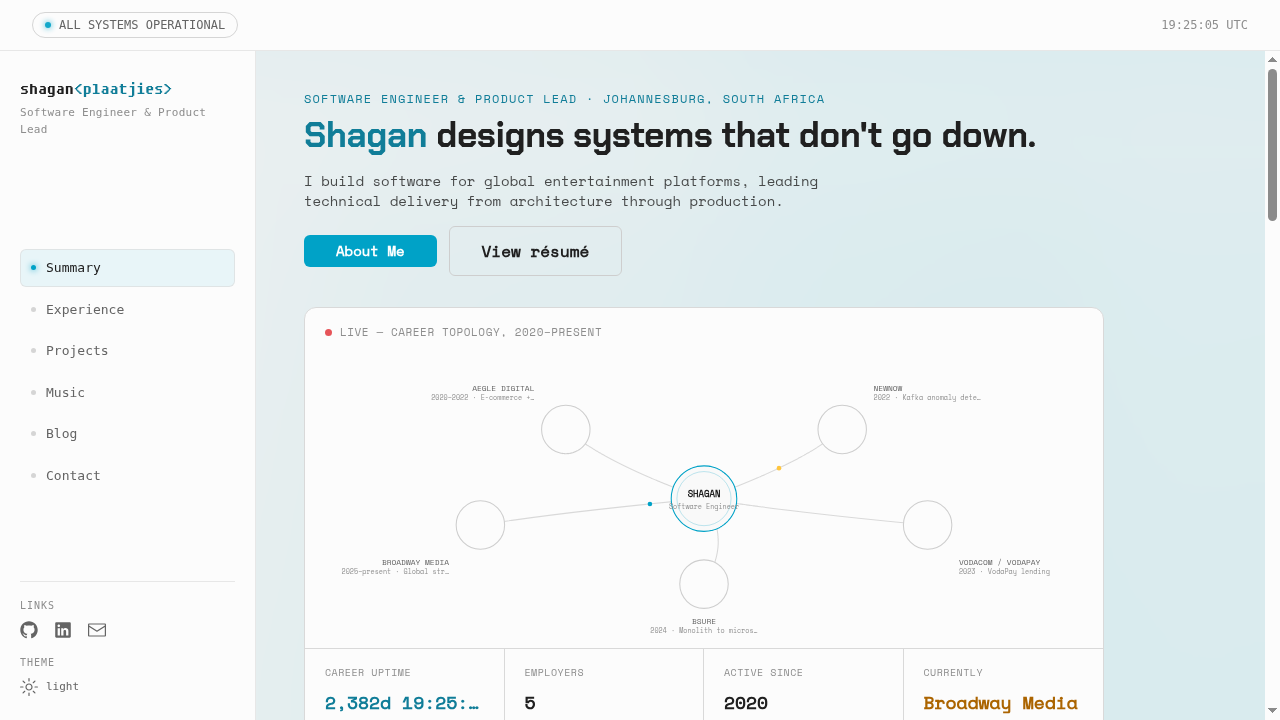
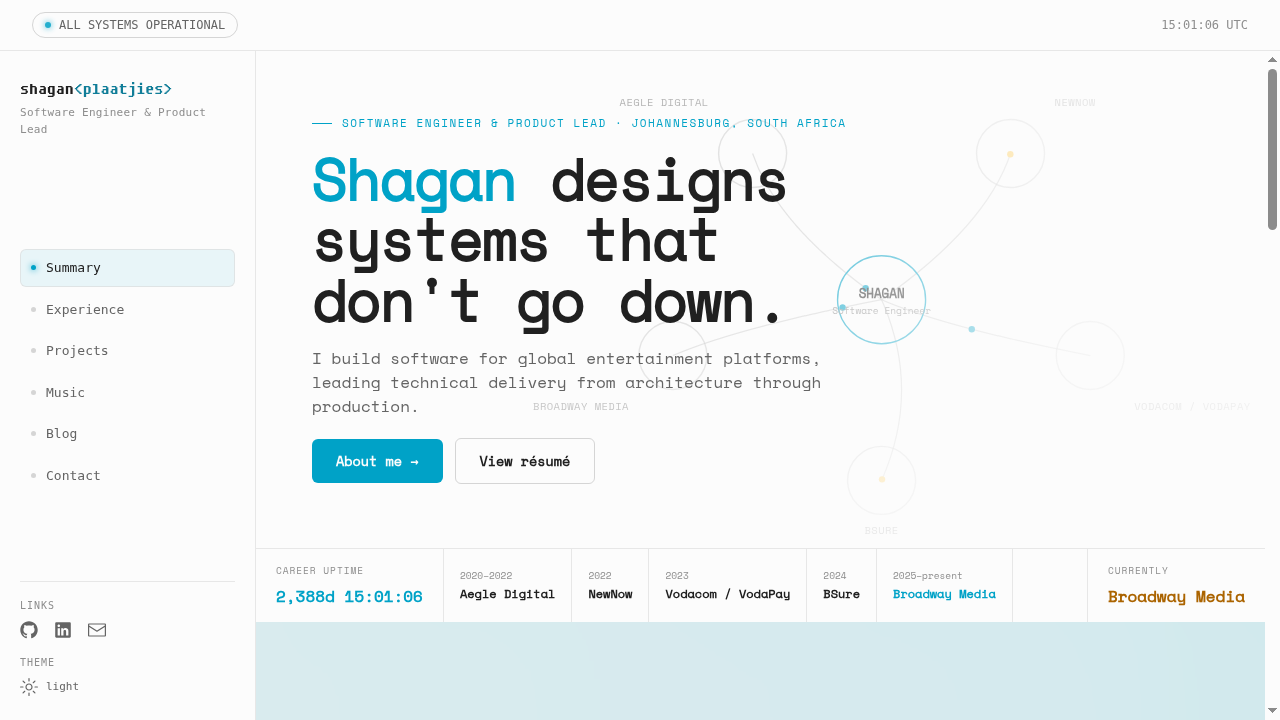
no-mistakes(document): Sync docs/screenshots with atmosphere hero redesign

diff --git a/AGENTS.md b/AGENTS.md
@@ -90,13 +90,17 @@ Part 2 of the sequence (part 1: nav/status bar reskin, see "Ops Console nav/chro
 
 **The full-bleed `preserveAspectRatio="xMidYMid slice"` clipping risk (flagged in `homepage-composition-r7/report.md` section C) is solved structurally, not by picking a bigger static viewBox.** `useMeasuredSize()` (a `ResizeObserver` on the wrapper div) sets the SVG's `viewBox` to exactly match the wrapper's real measured pixel size on every resize, so "slice" mode never actually has scale-mismatched geometry left to crop - the mismatch that used to cause cropping can no longer occur by construction. Node/label positions (`layoutEllipse`/`layoutStack`) are then derived from that measured width/height using pixel margins (`LABEL_RESERVE_X/Y`, computed via `Math.min`/`Math.max` clamps), not fixed percentages, so layout self-adjusts and stays clear of the diagram's own edges at any real aspect ratio. Verified live at 2560x1440, 1440x900, 1024x768, and 390x844 in both themes - no node or label ever renders off-viewport at any of those sizes.
 
+**Ambient labels are truncated (`truncate()`, capped at 22 chars on the ellipse layout / 20 on the stack layout), separately from the viewBox-clipping fix above.** `LABEL_RESERVE_X/Y` keeps every label's *position* clear of the diagram's edges regardless of aspect ratio, but says nothing about a label's own *length* - real WordPress-backed company/role strings can be arbitrarily long, unlike the short static fallback nodes used for most manual verification, so an unclipped but untruncated label can still overflow into neighboring nodes or off the diagram. The hover/tap/focus detail card is exempt and always renders the full, untruncated text.
+
 **Ellipse vs. vertical-stack layout is chosen by measured aspect ratio (`STACK_ASPECT_THRESHOLD = 0.85`, i.e. `width/height`), not by a Tailwind breakpoint.** This replaced the old dual desktop/mobile SVGs (`hidden sm:block`/`block sm:hidden`) with a single SVG per `TopologyDashboard` instance - a real device can cross the 640px Tailwind breakpoint while still having a narrow *effective* content-pane aspect ratio (e.g. a narrow desktop window), so keying layout choice off measured geometry instead of viewport width is what actually determines whether the ellipse layout has room to avoid overlapping its own labels.
 
 **The footer ticker (career uptime, per-employer year+company track, "Currently") lives inside `SystemsHero.tsx`'s own `flex-1`-then-ticker column split, not overlaid on top of the diagram.** Earlier iteration overlaid the ticker via `position: absolute` at the bottom of the same box the diagram filled, which let bottom-row ellipse/stack node labels render invisibly *behind* the ticker's opaque bar - a real bug, not just a design nitpick, since the labels were fully present in the DOM but never visible. Fixed by giving the diagram+HUD its own `relative flex-1` wrapper (a real layout boundary) with the ticker as a normal-flow sibling below it, so the diagram's measured box (and therefore its node layout) excludes the ticker's height entirely rather than needing a guessed pixel reserve.
 
 **`TopologyUptimeStat.tsx`** is a small `"use client"` component isolated from `SystemsHero.tsx` (a plain server component) specifically because "career uptime" is the only genuinely ticking value in the ticker (see "no fabricated telemetry" note in the "Live System hero" section above) - keeping the tick interval scoped to this one leaf avoids making the whole hero a client component.
 
-**Hover (desktop) / tap (mobile) node interaction** is implemented with Pointer Events (`onPointerEnter`/`onPointerMove`/`onPointerLeave`/`onPointerUp`), branching on `e.pointerType` rather than maintaining separate mouse/touch code paths: `pointerType === "mouse"` drives a cursor-following detail card (hover), any other pointer type drives a tap-to-toggle pinned card dismissed by tapping outside (a `document`-level `pointerdown` listener checking `.closest("[data-topology-node]")`). The detail card clamps its own position against the diagram's measured box (`rootRef.getBoundingClientRect()`) so it can't spill past the bottom/right edge for nodes laid out near those edges.
+**Hover (desktop) / tap (mobile) node interaction** is implemented with Pointer Events (`onPointerEnter`/`onPointerMove`/`onPointerLeave`/`onPointerUp`), branching on `e.pointerType` rather than maintaining separate mouse/touch code paths: `pointerType === "mouse"` drives a cursor-following detail card (hover), any other pointer type drives a tap-to-toggle pinned card dismissed by tapping outside (a `document`-level `pointerdown` listener checking `.closest("[data-topology-node]")`). The detail card clamps its own position against the diagram's measured box on first paint (`rootRef.getBoundingClientRect()`, using estimated `CARD_WIDTH`/`CARD_HEIGHT`), then re-clamps in a `useLayoutEffect` against the card's real measured `getBoundingClientRect()` once it's actually in the DOM, since real (untruncated) company/role text makes the card's true height vary - so it can't spill past the bottom/right edge for nodes laid out near those edges even with long text.
+
+**The diagram is keyboard- and screen-reader-accessible, not just pointer-accessible.** Each node `<g>` carries `role="button"`, `tabIndex={0}`, and `aria-label={describeNode(node)}` (full, untruncated label + year range + role), with `onFocus`/`onBlur` handlers (`handleNodeFocus`/`handleNodeBlur`) that show/dismiss the same detail card a mouse hover would - tabbing is the keyboard equivalent of hovering. All purely visual SVG children (connector paths, packet dots, the center node, node circles/text) carry `aria-hidden="true"` so screen readers don't double-announce them; the visible detail card is also `aria-hidden` since an `aria-live="polite"` region announces `describeNode()` text on every `activeNode` change, and a permanent `sr-only` `<ul>` lists `describeNode()` for every node so the full roster is discoverable without needing to focus/hover each one individually.
 
 **The hero's ambient diagram intentionally crosses behind the HUD text column at narrower desktop widths** (verified at 1024x768) - this is not a layout bug to chase further. All node/company text remains fully present and un-clipped in the DOM (verified via `getBoundingClientRect` on every node at that width); the visual layering against the foreground heading is the "atmosphere" concept working as designed, matching the reference prototype's own screenshots where diagram edges cross the HUD text area. `layoutEllipse`'s hub is biased to `size.width * 0.62` (not true center) specifically to maximize clearance from the HUD's `max-w-2xl` column, but some overlap at narrow widths is an accepted tradeoff, not eliminated entirely.
 

diff --git a/README.md b/README.md
@@ -9,7 +9,7 @@ It is a Next.js 15 App Router application with a custom Express server, styled a
 
 ### Features
 
-- **Live System hero** - the homepage and the `/experience`/`/projects` pages open with an animated SVG career-topology dashboard: real work-history data (fetched from WordPress, with a static fallback) rendered as nodes orbiting a center node, plus a stat strip of career-uptime and employer metrics.
+- **Live System hero** - the homepage and the `/experience`/`/projects` pages open with a full-bleed ambient SVG career-topology diagram behind the hero text: real work-history data (fetched from WordPress, with a static fallback) rendered as nodes orbiting a center node, hoverable/tappable for a per-employer detail card, plus a footer ticker of career-uptime and employer metrics.
 - **Desktop OS themed UI** - sections are rendered as window cards (with window chrome and controls) on a desktop-style canvas, animated with Framer Motion and GSAP.
 - **Blog** - posts are authored in WordPress and pulled in as a headless CMS, then rendered as native Next.js pages at `/blog`.
 - **Projects** - a project showcase at `/projects`, with individual project detail pages.